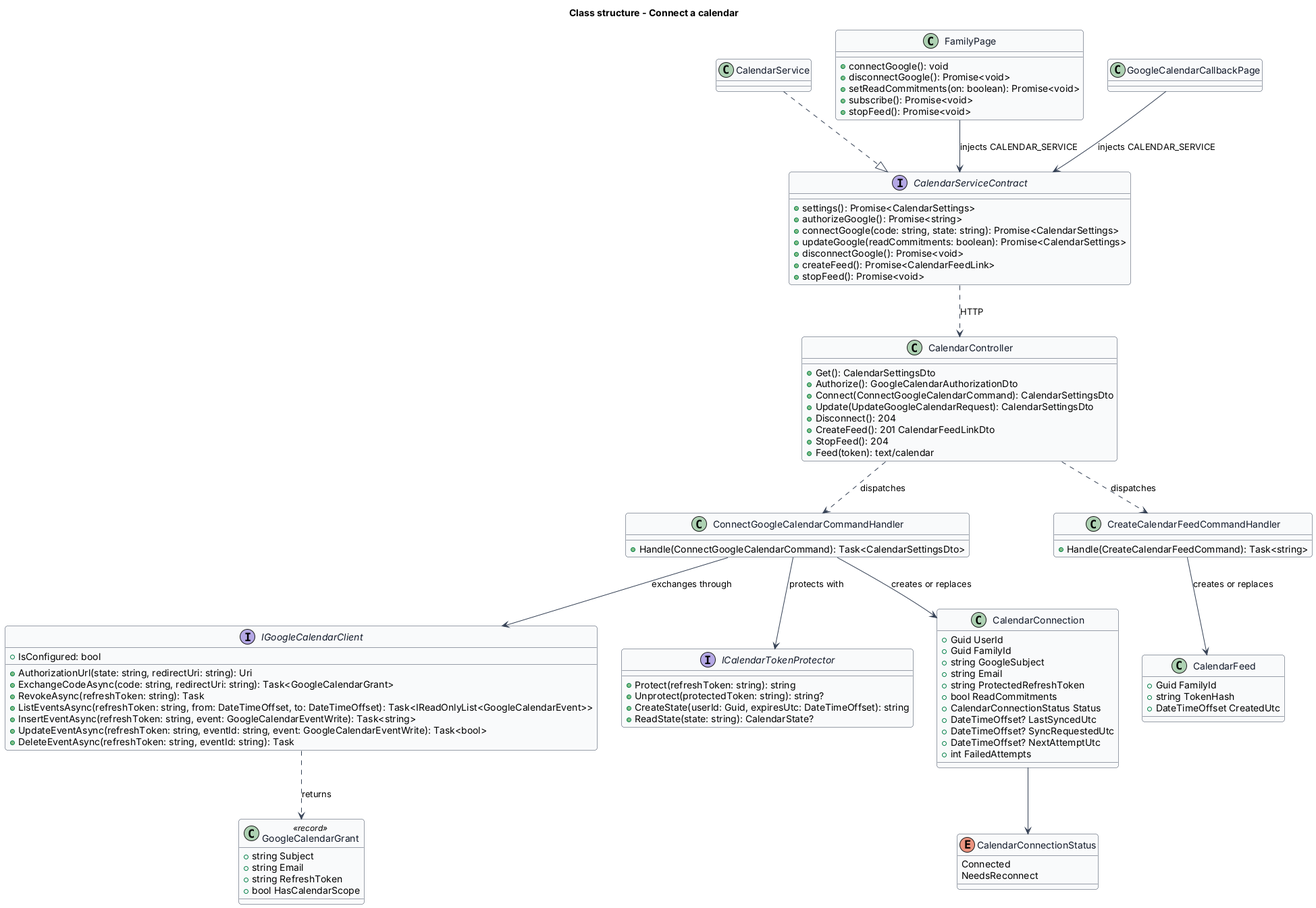
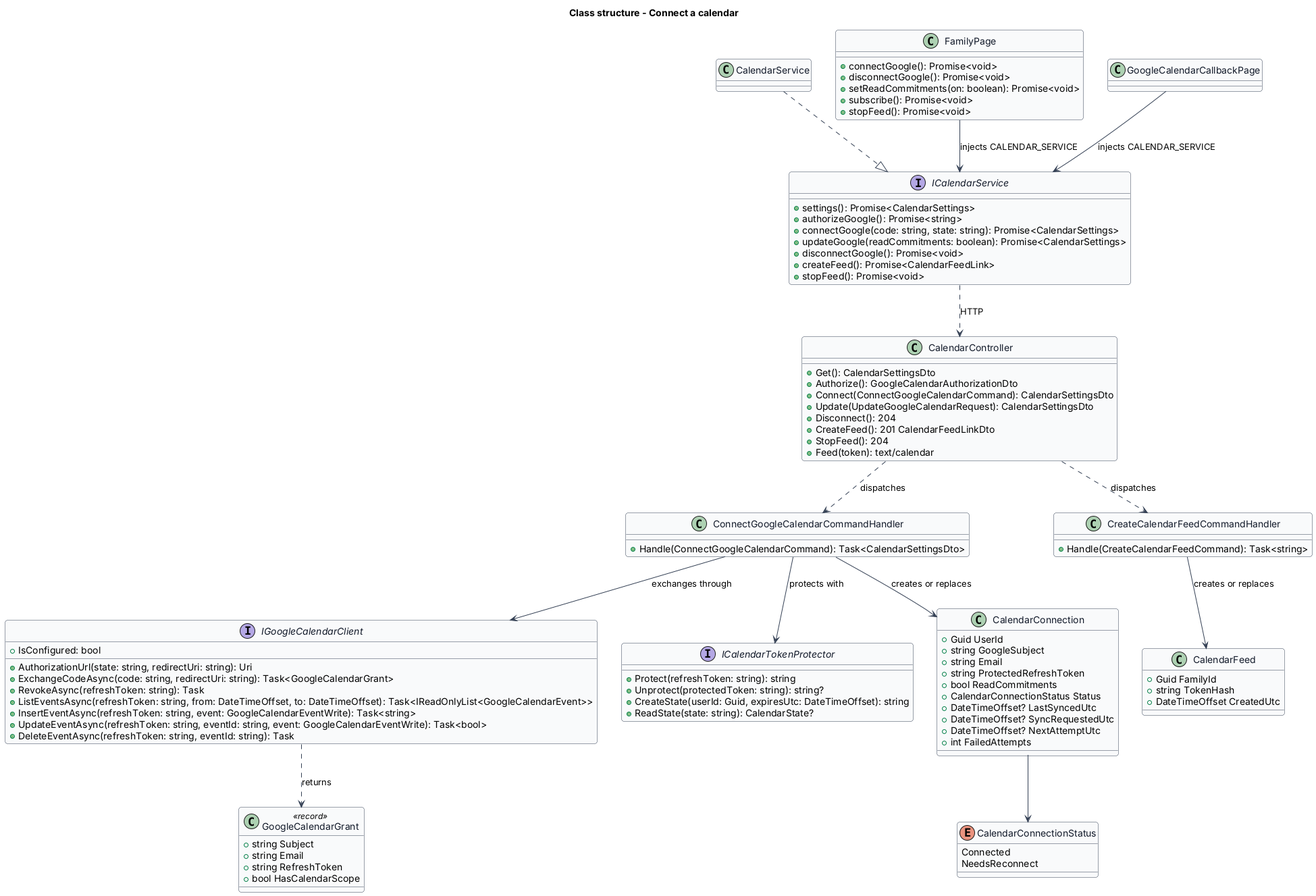
Bring calendar sync docs to the state of the code
The designs name ICalendarService, the four migrations, the log redactor,
the planner's clipping and the scheduler's back-off rule; ADR-020 records
the Data Protection package and the Xml pin; estimates and the Sync a
calendar journey move to 90%, the rest being the Windows visual baselines.

Claude-Session: https://claude.ai/code/session_01SSxRraHoaBgfctE5rXkNNg

diff --git a/docs/detailed-designs/identity-and-access/connect-calendar/README.md b/docs/detailed-designs/identity-and-access/connect-calendar/README.md
@@ -14,19 +14,19 @@ Two paths exist. Google Calendar is connected through an OAuth 2.0 authorization
 
 ## Description
 
-`FamilyPage` renders a "Calendar" section after "Preferences" from `CalendarSettings`, which `CalendarService` (the `api` library, bound to `CALENDAR_SERVICE` through `CalendarServiceContract`) loads from `GET /api/calendar`. The section draws the states of `docs/mocks/pages/family.calendar.html`: not connected, Google not configured (the Google row is absent when `googleConfigured` is false), Google connected, subscription link on, needs reconnect and consent denied.
+`FamilyPage` renders a "Calendar" section after "Preferences" from `CalendarSettings`, which `CalendarService` (the `api` library, bound to `CALENDAR_SERVICE` through the `ICalendarService` contract) loads from `GET /api/calendar`. The section draws the states of `docs/mocks/pages/family.calendar.html`: not connected, Google not configured (the Google row is absent when `googleConfigured` is false), Google connected, subscription link on, needs reconnect and consent denied.
 
-"Connect Google Calendar" opens `ConnectCalendarDialog` (D31) through the CDK `Dialog`. Its "Continue to Google" calls `CalendarService.authorizeGoogle()` (`POST /api/calendar/google/authorize`) and assigns the returned `authorizationUrl` to the window location; a failure keeps the dialog open with the warn banner "Google didn't answer. Nothing was connected. Try again in a minute.". Google returns the browser to `/family/calendar/google`, routed to `GoogleCalendarCallbackPage` behind `requireAuth`. With `code` and `state` the page calls `CalendarService.connectGoogle(code, state)` (`POST /api/calendar/google/connect`) and navigates to `/family`; with `error`, or when the API refuses the code, it navigates to `/family?calendar=denied`, which shows the info banner "Google Calendar wasn't connected. Nothing was shared.". The connected row names the account's email and "synced {relative time}"; the "Plan around my calendar" `sd-toggle` calls `CalendarService.updateGoogle(readCommitments)` (`PUT /api/calendar/google`). A `needs_reconnect` status shows the warn `sd-banner` (`role="alert"`) and a "Reconnect" button that opens D31. "Disconnect" opens the shared `ConfirmDialog` as D32 and calls `CalendarService.disconnectGoogle()` (`DELETE /api/calendar/google`).
+"Connect Google Calendar" opens `ConnectCalendarDialog` (D31) through the CDK `Dialog`. Its "Continue to Google" awaits the `start()` callback `FamilyPage` passes in, which calls `CalendarService.authorizeGoogle()` (`POST /api/calendar/google/authorize`) and assigns the returned `authorizationUrl` to the document's location; a failure keeps the dialog open with the warn banner "Google didn't answer. Nothing was connected. Try again in a minute." and relabels the primary action "Try again" (D31b). Google returns the browser to `/family/calendar/google`, routed to `GoogleCalendarCallbackPage` behind `requireAuth`. With `code` and `state` the page calls `CalendarService.connectGoogle(code, state)` (`POST /api/calendar/google/connect`) and navigates to `/family`; with `error`, or when the API refuses the code, it navigates to `/family?calendar=denied`, which shows the info banner "Google Calendar wasn't connected. Nothing was shared.". The connected row names the account's email and "synced just now", "synced N minutes ago", "synced N hours ago" or the date; the "Plan around my calendar" `sd-toggle` calls `CalendarService.updateGoogle(readCommitments)` (`PUT /api/calendar/google`). A `needs_reconnect` status shows the warn `sd-banner` (`role="alert"`) and a "Reconnect" button that opens D31. "Disconnect" opens the shared `ConfirmDialog` as D32 and calls `CalendarService.disconnectGoogle()` (`DELETE /api/calendar/google`).
 
 "Subscribe from another calendar" and "Get a new link" call `CalendarService.createFeed()` (`POST /api/calendar/feed`) and open `CalendarFeedDialog` (D33) with the returned `webcalUrl` in an `sd-copy-field`, the Apple Calendar, Outlook and Google Calendar steps, "Stop the link" and "Done". "Stop" and "Stop the link" open `ConfirmDialog` as D34 and call `CalendarService.stopFeed()` (`DELETE /api/calendar/feed`). The section never shows a feed URL after the dialog closes; it shows "Subscription link is on" with the creation date.
 
 `CalendarController` (`api/calendar`) dispatches MediatR requests; its feed action is `[AllowAnonymous]`, every other action uses the fallback bearer policy (ADR-008). `GetCalendarSettingsQueryHandler` returns `CalendarSettingsDto(GoogleConfigured, Google, Feed)`, where `Google` is the caller's own `CalendarConnection` (`GoogleCalendarConnectionDto(Email, Status, ReadCommitments, LastSyncedUtc)`) and `Feed` is the family's `CalendarFeed` (`CalendarFeedStatusDto(Active, CreatedUtc)`). `AuthorizeGoogleCalendarCommandHandler` answers `503 google_calendar_not_configured` through `AuthFlowException` when `IGoogleCalendarClient.IsConfigured` is false (an empty `GoogleOptions.ClientId` or `GoogleOptions.ClientSecret`), creates a state with `ICalendarTokenProtector.CreateState(userId, now + 10 minutes)` and returns `IGoogleCalendarClient.AuthorizationUrl(state, redirectUri)`, where `redirectUri` is `{Saturdaze:Share:AppOrigin}/family/calendar/google` (`CalendarOptions.RedirectUri`).
 
-`ConnectGoogleCalendarCommandValidator` requires `Code` and `State`. `ConnectGoogleCalendarCommandHandler` reads the state with `ICalendarTokenProtector.ReadState()` and refuses a state that is unreadable, expired or issued to another user with `400 calendar_state_invalid`. It calls `IGoogleCalendarClient.ExchangeCodeAsync(code, redirectUri)`, which returns `GoogleCalendarGrant(Subject, Email, RefreshToken, HasCalendarScope)` or throws `GoogleCalendarCodeRejectedException` (`400 google_calendar_code_invalid`) or `GoogleCalendarUnavailableException` (`502 google_calendar_unavailable`). A grant without the calendar scope is revoked and refused with `400 google_calendar_scope_missing`. Otherwise the handler revokes the caller's previous grant when there is one, deletes its `CalendarEventLink` rows, and stores a `CalendarConnection` with `ProtectedRefreshToken = ICalendarTokenProtector.Protect(refreshToken)`, `Status = Connected`, `ReadCommitments = true` and `SyncRequestedUtc` set so the current weekend is written (`sync-weekend-to-calendar`). `UpdateGoogleCalendarCommandHandler` sets `ReadCommitments` on the caller's connection (404 when there is none). `DisconnectGoogleCalendarCommandHandler` unprotects and revokes the refresh token, ignoring any failure, then deletes the connection; its `CalendarEventLink` rows cascade and the events stay in Google.
+`ConnectGoogleCalendarCommandValidator` requires `Code` and `State`. `ConnectGoogleCalendarCommandHandler` reads the state with `ICalendarTokenProtector.ReadState()` and refuses a state that is unreadable, expired or issued to another user with `400 calendar_state_invalid`. It calls `IGoogleCalendarClient.ExchangeCodeAsync(code, redirectUri)`, which returns `GoogleCalendarGrant(Subject, Email, RefreshToken, HasCalendarScope)` or throws `GoogleCalendarCodeRejectedException` (`400 google_calendar_code_invalid`) or `GoogleCalendarUnavailableException` (`502 google_calendar_unavailable`). A grant without the calendar scope is revoked and refused with `400 google_calendar_scope_missing`. Otherwise the handler revokes the caller's previous grant when there is one, deletes its `CalendarEventLink` rows, and stores a `CalendarConnection` with `ProtectedRefreshToken = ICalendarTokenProtector.Protect(refreshToken)`, `Status = Connected`, `ReadCommitments = true` and `SyncRequestedUtc` set, then calls `ICalendarSyncSignal.Notify()`, so the current weekend is written (`sync-weekend-to-calendar`). When the new grant names another Google account, the connection's `CalendarEventLink` rows are dropped first, because those events live in the other account's calendar. `UpdateGoogleCalendarCommandHandler` sets `ReadCommitments` on the caller's connection (404 when there is none). `DisconnectGoogleCalendarCommandHandler` unprotects and revokes the refresh token, logging and ignoring a failure, then deletes the connection; its `CalendarEventLink` rows cascade and the events stay in Google. All of these use `AuthFlowException` for their `{ code, message }` answers, as sign-in does.
 
-`CreateCalendarFeedCommandHandler` mints a raw token with `IJwtTokenService.CreateRawRefreshToken()`, replaces the family's `CalendarFeed` with one holding `HashRefreshToken(raw)`, and returns the raw token once; the controller turns it into `CalendarFeedLinkDto(Url, WebcalUrl, CreatedUtc)` on the API origin. `StopCalendarFeedCommandHandler` deletes the family's feed. `GetCalendarFeedQueryHandler` hashes the token, finds the feed (404 otherwise), loads the family's weekend for `GetCurrentWeekendQueryHandler.ResolveUpcomingSaturday(today)` without generating one, and returns `CalendarFeedWeekend(WeekendOf, Events)` filtered by `CalendarEventSelection.Includes()` (no drives, downtime or calendar-sourced blocks). The controller writes it with `WeekendControllerHelpers.ToIcs()`, the writer the `.ics` export already uses, so titles and times appear and reasons do not.
+`CreateCalendarFeedCommandHandler` mints a raw token with `IJwtTokenService.CreateRawRefreshToken()`, replaces the family's `CalendarFeed` with one holding `HashRefreshToken(raw)`, and returns the raw token once; the controller turns it into `CalendarFeedLinkDto(Url, WebcalUrl, CreatedUtc)` on the API origin. `StopCalendarFeedCommandHandler` deletes the family's feed. `GetCalendarFeedQueryHandler` hashes the token, finds the feed (404 otherwise), loads the family's weekend for `GetCurrentWeekendQueryHandler.ResolveUpcomingSaturday(today)` without generating one, and returns `CalendarFeedWeekend(WeekendOf, Events)` filtered by `CalendarEventSelection.Includes()` (no drives, downtime or calendar-sourced blocks). The controller writes it with `IcsWriter.ToIcs()`, the writer the `.ics` export and the share link's calendar also use (moved out of `WeekendsController`), and answers `Cache-Control: no-store`, so titles and times appear and reasons do not. `CalendarFeedTokenRedactor`, a Serilog enricher in the API, rewrites `/api/calendar/feed/{token}.ics` in every logged path property, because ASP.NET Core logs the request path with each event of the request and calendar applications fetch the link on a schedule (L2-170).
 
-`GoogleCalendarClient` (Infrastructure) implements `IGoogleCalendarClient` over the named `HttpClient` `google-calendar`: the authorization URL on `https://accounts.google.com/o/oauth2/v2/auth`, the code exchange and refresh on `https://oauth2.googleapis.com/token`, revocation on `https://oauth2.googleapis.com/revoke`, and the Google Calendar API v3 on the `primary` calendar. It reads the Google subject and email from the ID token the token endpoint returns over TLS. `DataProtectionCalendarTokenProtector` implements `ICalendarTokenProtector` with the purposes `Saturdaze.CalendarSync.GoogleRefreshToken.v1` and `Saturdaze.CalendarSync.State.v1`; the key ring persists to `CalendarOptions.KeyDirectory` when it is set. `CalendarConnection` is stored in `CalendarConnections` (unique on `UserId`, cascade-deleted with the user), `CalendarFeed` in `CalendarFeeds` (unique on `FamilyId` and on `TokenHash`), both in migration `AddCalendarSync`. Removing a member deletes their connection with their account (L2-173).
+`GoogleCalendarClient` (Infrastructure) implements `IGoogleCalendarClient` over the named `HttpClient` `google-calendar`: the authorization URL on `https://accounts.google.com/o/oauth2/v2/auth`, the code exchange and refresh on `https://oauth2.googleapis.com/token`, revocation on `https://oauth2.googleapis.com/revoke`, and the Google Calendar API v3 on the `primary` calendar. It reads the Google subject and email from the ID token the token endpoint returns over TLS. `DataProtectionCalendarTokenProtector` implements `ICalendarTokenProtector` with the purposes `Saturdaze.CalendarSync.GoogleRefreshToken.v1` and `Saturdaze.CalendarSync.State.v1`; the key ring, from the `Microsoft.AspNetCore.DataProtection` package so the plain-runtime Worker can still load Infrastructure, persists to `Saturdaze:Calendar:KeyDirectory` when it is set. `CalendarFeed` is stored in `CalendarFeeds` (unique on `FamilyId` and on `TokenHash`, migration `AddCalendarFeeds`) and `CalendarConnection` in `CalendarConnections` (unique on `UserId`, cascade-deleted with the user, migration `AddCalendarConnections`; the sync columns arrive in `AddCalendarSync`). A connection has no family column: its family is its account's, so it follows the account, and removing a member deletes their connection with their account (L2-173).
 
 Tests stand in for Google at both boundaries (ADR-020, decision 7). `FakeGoogleCalendarClient` replaces `IGoogleCalendarClient` in `CalendarConnectTests` and `CalendarFeedTests`; `GoogleCalendarClientTests` drive the real client through a fake `HttpMessageHandler`. In Playwright, `calendar-google.spec.ts` answers `/api/calendar` from route stubs and sends the browser straight to `/family/calendar/google?code=…&state=…` in place of Google's consent screen, and `calendar-feed.spec.ts` runs the subscription link against the real API through the `FamilyPage` page object.
 

diff --git a/docs/detailed-designs/weekend-planning/sync-weekend-to-calendar/README.md b/docs/detailed-designs/weekend-planning/sync-weekend-to-calendar/README.md
@@ -16,17 +16,17 @@ The write runs after the family's request returns and recovers on its own (ADR-0
 
 ## Description
 
-**Write direction.** The commands that change the current weekend implement the marker interface `IChangesItinerary`: `GenerateWeekendCommand`, `RegenerateWeekendCommand`, `RegenerateWeekendDayCommand`, `ReuseWeekendCommand` (repeat and remix), `LockWeekendDayCommand`, `RenameWeekendCommand`, `LockBlockCommand`, `SwapBlockCommand`, `AddIdeaToWeekendCommand`, `AddShoppingErrandCommand` and `MarkErrandDoneCommand`. `CalendarSyncBehavior<TRequest, TResponse>`, a MediatR pipeline behavior registered after validation, awaits the handler and, for those requests only, calls `CalendarSyncScheduler.RequestAsync(familyId)` with the caller's family from `ICurrentFamilyAccessor`. The scheduler sets `SyncRequestedUtc` (and `NextAttemptUtc` to now) on every `CalendarConnection` of the family whose `Status` is `Connected`, and calls `ICalendarSyncSignal.Notify()`; a family without connections costs one indexed query.
+**Write direction.** The commands that change the current weekend implement the marker interface `IChangesItinerary`: `GenerateWeekendCommand`, `RegenerateWeekendCommand`, `RegenerateWeekendDayCommand`, `ReuseWeekendCommand` (repeat and remix), `LockWeekendDayCommand`, `RenameWeekendCommand`, `LockBlockCommand`, `SwapBlockCommand`, `AddIdeaToWeekendCommand`, `AddShoppingErrandCommand` and `MarkErrandDoneCommand`. `CalendarSyncBehavior<TRequest, TResponse>`, a MediatR pipeline behavior registered after validation, awaits the handler and, for those requests only, calls `CalendarSyncScheduler.RequestAsync(familyId)` with the caller's family from `ICurrentFamilyAccessor`. The scheduler sets `SyncRequestedUtc` on every `CalendarConnection` whose `Status` is `Connected` and whose account belongs to the family (and `NextAttemptUtc` to now, unless a write is already backing off, so a change never jumps the back-off), and calls `ICalendarSyncSignal.Notify()`; a family without connections costs one query. A failure to schedule is logged by request name and never fails the family's request.
 
-`CalendarSyncService` (Infrastructure, a `BackgroundService` registered beside `EmailDispatchService`) waits on `CalendarSyncSignal` for at most `CalendarOptions.PollSeconds` (60 by default) and then calls `CalendarSyncRunner.RunDueAsync()` in a new scope. The runner selects connections with `SyncRequestedUtc` set, `Status = Connected` and `NextAttemptUtc` at or before `IDateTimeProvider.UtcNow`, and sends `SyncCalendarConnectionCommand(connectionId)` for each. Because the pending flag is a column, a restart picks up any sync that was due.
+`CalendarSyncService` (Infrastructure, a `BackgroundService` registered beside `EmailDispatchService`) waits on `CalendarSyncSignal`, the singleton behind `ICalendarSyncSignal` whose notifications collapse into one wake, for at most `CalendarOptions.PollSeconds` (60 by default) and then calls `CalendarSyncRunner.RunDueAsync()` in a new scope. The runner selects connections with `SyncRequestedUtc` set, `Status = Connected` and `NextAttemptUtc` at or before `IDateTimeProvider.UtcNow`, and sends `SyncCalendarConnectionCommand(connectionId)` for each. Because the pending flag is a column, a restart picks up any sync that was due.
 
-`SyncCalendarConnectionCommandHandler` unprotects the refresh token (`ICalendarTokenProtector.Unprotect`; an unreadable token is treated as a revoked grant), loads the family's weekend for `ResolveUpcomingSaturday(today)` with its blocks, and builds one `GoogleCalendarEventWrite` per block that `CalendarEventSelection.Includes()` accepts (every kind except `Drive` and `Downtime`, and never a `FromCalendar` block): summary = block title; start and end = the block's day and times as local times in `CalendarOptions.TimeZone` (`America/Toronto` by default); description = "Part of {weekend title}. Planned with Saturdaze." (the weekend title is its `Title`, or "This weekend" when unnamed); location = the block's stop address; and a private extended property `saturdazeBlock` = block id. It compares a SHA-256 fingerprint of those fields with the connection's `CalendarEventLink` rows for that weekend: a new block is inserted (`IGoogleCalendarClient.InsertEventAsync` returns the event id, stored in a new link); a changed block is updated (`UpdateEventAsync`; `false` for an event deleted in Google, which is then inserted again); a link whose block is gone is deleted from Google (`DeleteEventAsync`, which treats 404 and 410 as done) and from the table. Links for other weekends are not touched. On success the handler clears `SyncRequestedUtc`, sets `LastSyncedUtc` and resets `FailedAttempts`. `GoogleCalendarUnavailableException` increments `FailedAttempts` and sets `NextAttemptUtc` to now plus 1, 2, 4, 8, 16, 32 and then 60 minutes; links already written in that pass are saved. `GoogleCalendarGrantRevokedException` sets `Status = NeedsReconnect` and clears the flag; connecting again (`ConnectGoogleCalendarCommandHandler`) sets the flag so the weekend is written in full. Failures are logged with the connection id and the exception type only.
+`SyncCalendarConnectionCommandHandler` unprotects the refresh token (`ICalendarTokenProtector.Unprotect`; an unreadable token is treated as a revoked grant), loads the family's weekend for `ResolveUpcomingSaturday(today)` with its blocks, and builds one `GoogleCalendarEventWrite` per block that `CalendarEventSelection.Includes()` accepts (every kind except `Drive` and `Downtime`, and never a `FromCalendar` block): summary = block title; start and end = the block's day and times as local times in `CalendarOptions.TimeZone` (`America/Toronto` by default); description = "Part of {weekend title}. Planned with Saturdaze." (the weekend title is its `Title`, or "This weekend" when unnamed); location = the block's stop address; and a private extended property `saturdazeBlock` = block id. It compares a SHA-256 fingerprint of those fields with the connection's `CalendarEventLink` rows for that weekend: a new block is inserted (`IGoogleCalendarClient.InsertEventAsync` returns the event id, stored in a new link); a changed block is updated (`UpdateEventAsync`; `false` for an event deleted in Google, which is then inserted again); a link whose block is gone is deleted from Google (`DeleteEventAsync`, which treats 404 and 410 as done) and from the table. Links for other weekends are not touched. Each insert, update or delete is saved as it happens, so a pass cut short by an outage keeps what it wrote. On success the handler clears `SyncRequestedUtc` unless a newer change arrived during the pass, sets `LastSyncedUtc` and resets `FailedAttempts`. `GoogleCalendarUnavailableException` increments `FailedAttempts` and sets `NextAttemptUtc` to now plus 1, 2, 4, 8, 16, 32 and then 60 minutes. `GoogleCalendarGrantRevokedException` sets `Status = NeedsReconnect` and clears the flag; connecting again (`ConnectGoogleCalendarCommandHandler`) sets the flag so the weekend is written in full. Failures are logged with the connection id and the exception type only.
 
 `CalendarDialog` (D6) receives `googleSynced` from `WeekendPage`, which reads `CALENDAR_SERVICE.settings()`; when the caller's connection is `connected` the dialog shows the success banner of D6b above the file. The `.ics` download and the share link's calendar (L2-086) are unchanged.
 
-**Read direction.** `PlannerInputLoader.LoadAsync()` calls `ICalendarCommitmentSource.GetAsync(familyId, weekendOf)` and passes the result through `PlannerContext.CalendarCommitments` into `PlannerInputs.CalendarCommitments`. `GoogleCalendarCommitmentSource` loads the family's connections that are `Connected` with `ReadCommitments` on, and for each calls `IGoogleCalendarClient.ListEventsAsync(refreshToken, from, to)` with Saturday 00:00 and Monday 00:00 in the configured time zone, under one `CancellationTokenSource` of 5 seconds for the whole read. Each `GoogleCalendarEvent` is dropped when it is `AllDay`, `Cancelled`, `Declined` by the account, `Free` (transparent) or `WrittenBySaturdaze` (it carries the `saturdazeBlock` property). The rest are converted to local time, split at midnight into one `CalendarCommitment(Day, Start, End, Title)` per weekend day, clipped to `PlannerTimes.DayStart`–`PlannerTimes.DayEnd`, and dropped when empty; the title is the summary trimmed to 160 characters, or "Busy". `GoogleCalendarGrantRevokedException` marks the connection `NeedsReconnect`; any other failure or the timeout contributes nothing. No title or time is logged.
+**Read direction.** `PlannerInputLoader.LoadAsync()` calls `ICalendarCommitmentSource.GetAsync(familyId, weekendOf)` and passes the result through `PlannerContext.CalendarCommitments` into `PlannerInputs.CalendarCommitments`. `GoogleCalendarCommitmentSource` loads the family's connections that are `Connected` with `ReadCommitments` on, and for each calls `IGoogleCalendarClient.ListEventsAsync(refreshToken, from, to)` with Saturday 00:00 and Monday 00:00 in the configured time zone, under one `CancellationTokenSource` of 5 seconds for the whole read. Each `GoogleCalendarEvent` is dropped when it is `AllDay`, `Cancelled`, `Declined` by the account, `Free` (transparent) or `WrittenBySaturdaze` (it carries the `saturdazeBlock` property). The rest are converted to the configured time zone and split at midnight into one `CalendarCommitment(Day, Start, End, Title)` per weekend day they touch (`PlannerInputs.CalendarCommitments`); the title is the summary trimmed to 160 characters, or "Busy". `GoogleCalendarGrantRevokedException` marks the connection `NeedsReconnect`; any other failure or the timeout contributes nothing. No title or time is logged.
 
-`WeekendPlanner.BuildFixedBlocks()` places profile commitments and carried-over locked blocks as before (`materialize-commitments`), then each calendar commitment of that day in start order that does not overlap a block already in the list, as a locked `BlockKind.Commitment` block with `FromCalendar = true` and the reason "from your calendar". `EnsureNoOverlap()` therefore never sees a calendar conflict. `ItineraryBlock.FromCalendar` is persisted (`ItineraryBlocks.FromCalendar`, migration `AddCalendarSync`), copied by `WeekendReplanner` and the swap and idea paths, and mapped to `ItineraryBlockDto.FromCalendar`. Because calendar blocks are commitments, `LockBlockCommandHandler` refuses to unlock them (`commitment_locked`), the swap path refuses them, and regeneration carries them over. `SharedWeekendDto.From()` titles them "Busy" (L2-169 AC7).
+`WeekendPlanner.BuildFixedBlocks()` places profile commitments and carried-over locked blocks as before (`materialize-commitments`), then clips each calendar commitment of that day to `PlannerTimes.DayStart`–`PlannerTimes.DayEnd`, drops it when nothing is left, and in start order places each that does not overlap a block already in the list, as a locked `BlockKind.Commitment` block with `FromCalendar = true` and the reason "from your calendar". `EnsureNoOverlap()` therefore never sees a calendar conflict. `ItineraryBlock.FromCalendar` is persisted (`ItineraryBlocks.FromCalendar`, migration `AddItineraryBlockFromCalendar`), copied wherever planned blocks are saved (`GenerateWeekendCommandHandler`, `WeekendReplanner`, `RegenerateWeekendDayCommandHandler`, `CreateProspectCommandHandler`), carried over with the block it marks, and mapped to `ItineraryBlockDto.FromCalendar`. `ReuseWeekendCommandHandler` (repeat and remix) leaves a past weekend's calendar blocks out, since those events are not this weekend's. `CalendarEventLinks` and the connection's sync columns arrive in migration `AddCalendarSync`. Because calendar blocks are commitments, `LockBlockCommandHandler` refuses to unlock them (`commitment_locked`), the swap path refuses them, and regeneration carries them over. `SharedWeekendDto.From()` titles them "Busy" (L2-169 AC7).
 
 In the browser, `weekend-projection.ts` maps `fromCalendar` onto the block row: the rail icon `calendar`, the subtitle "From your calendar · planned around", and the chips "Commitment" (accent, lock) and "Calendar" (default, calendar). The `components` library is unchanged: `sd-block` already renders any chip list and icon.
 

diff --git a/docs/detailed-designs/family-profile/materialize-commitments/README.md b/docs/detailed-designs/family-profile/materialize-commitments/README.md
@@ -20,7 +20,7 @@ Saturdaze is a web application that plans personalized family weekends. Recurrin
 
 Regeneration carries existing commitment blocks over as locked blocks, so their IDs and time windows survive (L2-011 AC2, L2-016 AC1). `BuildFixedBlocks()` materializes a profile commitment only when no carried-over commitment block on that day has the same title or an overlapping window; a commitment edited in the profile therefore takes effect on newly generated weekends, while an already planned weekend keeps the block it had.
 
-Calendar commitments (L2-169) join the same path. `PlannerInputLoader` adds the weekend's events from the family's connected Google Calendars (`ICalendarCommitmentSource`, designed in `weekend-planning/sync-weekend-to-calendar`) to `PlannerInputs.CalendarCommitments`. `BuildFixedBlocks()` places them last: after the profile commitments and the carried-over locked blocks, each calendar commitment that does not overlap a block already placed that day becomes a locked `Commitment` block with `FromCalendar = true`, titled with the event's summary. An event that overlaps a profile commitment is left out, so the profile commitment wins and `EnsureNoOverlap()` never raises a conflict for a calendar event. Calendar blocks are carried over on regeneration like profile commitment blocks, so a calendar change takes effect on a newly generated weekend.
+Calendar commitments (L2-169) join the same path. `PlannerInputLoader` adds the weekend's events from the family's connected Google Calendars (`ICalendarCommitmentSource`, designed in `weekend-planning/sync-weekend-to-calendar`) to `PlannerInputs.CalendarCommitments`. `BuildFixedBlocks()` places them last: after the profile commitments and the carried-over locked blocks, it clips each calendar commitment to the planner's day (9:00 to 21:00), and each that does not overlap a block already placed that day becomes a locked `Commitment` block with `FromCalendar = true`, titled with the event's summary. An event that overlaps a profile commitment is left out, so the profile commitment wins and `EnsureNoOverlap()` never raises a conflict for a calendar event. Calendar blocks are carried over on regeneration like profile commitment blocks, so a calendar change takes effect on a newly generated weekend.
 
 ## Requirements
 

diff --git a/docs/adr/ADR-020-calendar-sync.md b/docs/adr/ADR-020-calendar-sync.md
@@ -51,7 +51,9 @@ ADR-019 chose Google Identity Services ID tokens for sign-in precisely because t
 
 ## Consequences
 
-- New tables `CalendarConnections`, `CalendarEventLinks` and `CalendarFeeds`, and the column `ItineraryBlocks.FromCalendar` (migration `AddCalendarSync`).
+- New tables `CalendarFeeds` (migration `AddCalendarFeeds`), `CalendarConnections` (`AddCalendarConnections`) and `CalendarEventLinks` with the connections' sync columns (`AddCalendarSync`), and the column `ItineraryBlocks.FromCalendar` (`AddItineraryBlockFromCalendar`). Apply them with `saturdaze migrate`.
+- Infrastructure takes the `Microsoft.AspNetCore.DataProtection` package rather than the ASP.NET Core shared framework, because `Saturdaze.Worker` runs on the plain .NET runtime image. It brings `System.Security.Cryptography.Xml`, whose central pin moves to 10.0.13 (GHSA-r955-8q5j-3h83).
+- The subscription link's token is part of a URL that ASP.NET Core logs with every event of a request; `CalendarFeedTokenRedactor`, a Serilog enricher in the API, rewrites it before any sink sees it (L2-170).
 - Google Cloud needs a manual change outside the repo: the Calendar API enabled, the `calendar.events` scope on the consent screen, the redirect URI `https://app.saturdaze.ca/family/calendar/google` (and `http://localhost:4200/family/calendar/google` for development) on the web client, and its secret stored as `GOOGLE_CLIENT_SECRET`. `README.md` lists the steps. Until then the Google option is hidden.
 - `calendar.events` is a sensitive scope; Google shows an "unverified app" warning to anyone outside the test users until the consent screen passes verification.
 - Events already written stay in the person's calendar after a disconnect, because the grant is revoked first and nothing can delete them afterwards. A future requirement could delete them before revoking.

diff --git a/docs/estimates/README.md b/docs/estimates/README.md
@@ -1,14 +1,14 @@
 # Estimates
 
 - Overall effort: 201 days
-- Complete: 87%
+- Complete: 93%
 
 | Subsystem | Effort | Complete |
 |---|---|---|
-| [identity-and-access](identity-and-access.md) | 43 days | 85% |
+| [identity-and-access](identity-and-access.md) | 43 days | 98% |
 | [family-profile](family-profile.md) | 12 days | 100% |
 | [weather](weather.md) | 3 days | 80% |
-| [weekend-planning](weekend-planning.md) | 36 days | 75% |
+| [weekend-planning](weekend-planning.md) | 36 days | 92% |
 | [discovery](discovery.md) | 44 days | 95% |
 | [administration](administration.md) | 32 days | 95% |
 | [operations](operations.md) | 13 days | 68% |
@@ -17,7 +17,7 @@
 
 ## Roadmap
 
-1. identity-and-access and weekend-planning: calendar sync (connect-calendar, sync-weekend-to-calendar)
+1. identity-and-access and weekend-planning: calendar sync visual baselines for the Calendar section and D31–D34, D6b on the Windows reference machine, then the Google Cloud OAuth client (calendar scope, redirect URIs, secret)
 2. weather and weekend-planning: production config warning, no-slot errand feedback, cover and map polish
 3. discovery: image srcset and place-imagery edge cases, add-idea-to-day edge cases
 4. administration and operations: CLI migrate and ingest tests, admin CORS, worker host tests, p95 performance budgets

diff --git a/docs/user-journeys.md b/docs/user-journeys.md
@@ -20,7 +20,7 @@ Ordered by value added to the product, highest first. Estimates are days for an 
 | Map the itinerary | View numbered stops, travel legs, and per-day map | 5 | 100% |
 | Browse past weekends | Filter, favourite, rate, rename, repeat, or remix past weekends | 5 | 100% |
 | Invite and manage family members | Owner invites, adds, and removes members sharing the family | 5 | 100% |
-| Sync a calendar | Connect Google Calendar or subscribe another calendar to the weekend; calendar events become commitments | 13 | 0% |
+| Sync a calendar | Connect Google Calendar or subscribe another calendar to the weekend; calendar events become commitments | 13 | 90% |
 | Share and export a weekend | Share a public link and export to calendar | 3 | 100% |
 | Add a shopping errand | Capture an errand and confirm its suggested slot | 3 | 100% |
 | Suggest an event | Submit a community event and track its pending status | 3 | 100% |

diff --git a/docs/estimates/identity-and-access.md b/docs/estimates/identity-and-access.md
@@ -2,7 +2,7 @@
 
 | Design | Effort | Complete |
 |---|---|---|
-| connect-calendar | 6 days | 0% |
+| connect-calendar | 6 days | 90% |
 | join-from-invitation | 4 days | 100% |
 | manage-family-members | 7 days | 100% |
 | manage-profile-photo | 4 days | 100% |

diff --git a/docs/estimates/weekend-planning.md b/docs/estimates/weekend-planning.md
@@ -8,4 +8,4 @@
 | generate-current-weekend | 5 days | 100% |
 | manage-shopping-errands | 3 days | 80% |
 | map-itinerary-and-travel-legs | 7 days | 90% |
-| sync-weekend-to-calendar | 7 days | 0% |
+| sync-weekend-to-calendar | 7 days | 90% |
